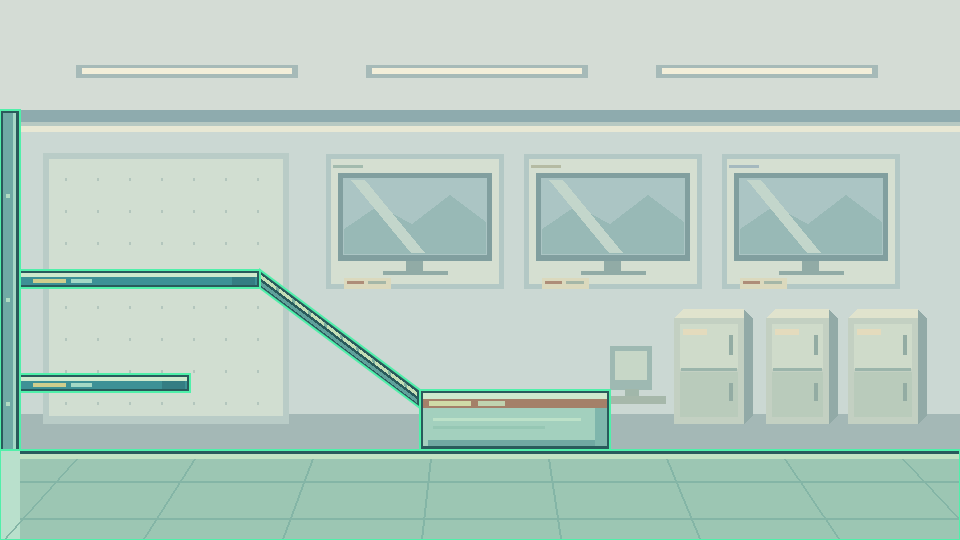
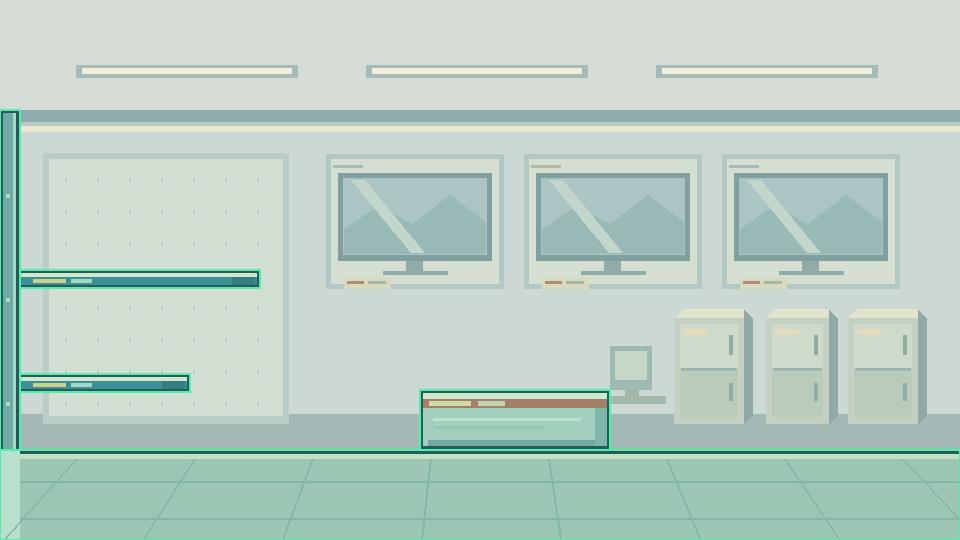
Open the electronics store's lower shelf approach
Remove the diagonal shelf-to-pedestal connector from both the authored SVG and static collision data. Keep shelf and pedestal positions, item candidates and stage ordering intact. Update the lesson and rendered previews to match.

Validation: Node visual review of the map, collider overlay and gameplay snapshot; 773 Godot 4.7.2 game integration checks passed with --fixed-fps 120. The process exited 0 with resource-cleanup warnings. No full-suite or deployment-success claim.

Assisted-by: ChatGPT

Changed region(s): [[0.25, 0.5037, 0.4375, 0.7704]]

diff --git a/docs/HANDOFF.md b/docs/HANDOFF.md
@@ -1,6 +1,6 @@
 # 実装引き継ぎ
 2026-11-12：家電量販店を追加。ソースは`RabbitDaisuke/nandemo-cannon`のmain、基準コミット`c2dbdbe3bb2631a58b2a66a9d9873d6a70e844fa`からクローンし直した。新面の内部IDは52、表示名は「かでんりょうはんてん」。`data/stage-order.json`へ手で挿入し、既存のsequenceGroupと通常の並べ替えを維持する。終盤2面の名前やIDを条件分岐する処理、末尾を保証するテストは追加していない。
-原稿は`tools/extend-electronics-store-stage.mjs`、生成入口は`./build.sh selection-items`。左端の壁、左の二段棚、上段から中央の低い展示台へ下る固定スロープを組み合わせた。棚の間とスロープ下は実際の空洞で、背景のテレビ・家電売り場には当たり判定を付けない。指定品をすべて含む既存50種類をqueueへ明記し、既存の15件超キュー処理により15種類を重複なし・シード付きで抽選する。洗濯機の重複指定は同じ種類として扱う。物体カタログは514件、自由選択は非表示2件を除く512件のままで、モノ・検索索引・既存51面の内容は変更していない。
+原稿は`tools/extend-electronics-store-stage.mjs`、生成入口は`./build.sh selection-items`。左端の壁、左の二段棚、独立した中央の低い展示台を組み合わせた。追加後の指摘により、下段へ投げ込む経路を塞いでいた斜めの接続を絵と当たり判定の両方から撤去した。棚の右側を開け、棚・展示台の位置と大きさは保持する。説明も「たなと てんじだいをつかって つみあげよう！」へ合わせた。背景のテレビ・家電売り場には当たり判定を付けない。指定品をすべて含む既存50種類をqueueへ明記し、既存の15件超キュー処理により15種類を重複なし・シード付きで抽選する。洗濯機の重複指定は同じ種類として扱う。物体カタログは514件、自由選択は非表示2件を除く512件のままで、モノ・検索索引・既存51面の内容は変更していない。
 確認では、Godot 4.7.2公式バイナリのSHAを照合し、新面を含むゲーム統合773項目と15投キューの再現性を確認した。既存rescue試験のステージ数51の固定条件だけを定義件数への追従へ直した。通常時間のrescue試験は爆風物の下向き衝突で失敗が出た一方、同じ試験を`--fixed-fps 120`で実行すると122項目すべて通過した。物理処理・合否条件は緩和していない。通常時間を含む全検証が安定成功したとは扱わず、Actionsと配信結果は別途確認が必要。画像確認はNode.jsで背景・コライダー・Godot状態を描画し、ブラウザやエンジンの画面キャプチャではない。
 2026-10-26 リテイク：親担当が14点を直接描き直し、`tools/oct26-retake-items.mjs`へ移した。新規の「かんがえるかお」を加え、ごまあんまんを原稿・物体データ・検索索引・画像から削除。合計442物体・48面・自由選択専用165点は変わらない。ユーザー確認によりチョコパンはハンバーグへ置換し、IDは`chocolate-bread`を保持。墨汁容器もID`inkstone`を保持する。つぶあんまんは大きい断面の半切りで、元の幅69・高さ69×85/111を維持。フライ返しのスリットと横向きフィルム芯は実コライダーでも空洞。平台車とパッカー車は既存のwheeled挙動を使う。全15点のNode描画とコライダー重ね画像を目視し、形状を再調整済み。`previews/selection-oct26-retakes.png`と同colliders画像で確認できる。素材生成とNode検査は完了、`./build.sh check`はGodotインポート後のsearch試験起動でEACCESになり、物理回帰テストは未確認。ゲーム実装・UI・ステージは変更していない。push後にActionsを待たない。
 2026-10-26：食品等31点・道具34点を追加して442物体、自由選択専用165点。原稿は`tools/oct26-food-items.mjs`と`tools/oct26-tool-items.mjs`、生成入口は`./build.sh selection-items`、手書き検索タグは索引へ別途記述した。マンゴーラッシーは既存品を使う。「ぽんぷ（無理）」の独立追加は見送り、明示された黄色蛇腹・青ホースの足踏みポンプは追加した。名前の文字数は強制制限しない。つぎの名前を14px、クレーンの最初の「モノ」だけカタカナに変更。専用abyss矩形を全4面から除き共通の画面外落下で消す。全48面の地形・キューが元データと同一であることをNodeで検証した。

diff --git a/AGENTS.md b/AGENTS.md
@@ -1,5 +1,5 @@
 # 開発時の指示
-2026-11-12追加：内部ID52「かでんりょうはんてん」は`tools/extend-electronics-store-stage.mjs`で生成する。指定品を含む既存50種類のqueueから共通処理で15種類を重複なし抽選する。指定に重複した洗濯機は1種類として扱い、物体カタログ514件（自由選択512件）を増減しない。左壁、二段の片持ち棚、上段から中央の低い展示台へつながる固定スロープを持ち、棚間とスロープ下は空洞。表示順は`data/stage-order.json`へ手で追加し、既存sequenceGroupによる終盤の並びを保持する。末尾2面を決め打ちする処理・順序保証テストは追加しない。
+2026-11-12追加：内部ID52「かでんりょうはんてん」は`tools/extend-electronics-store-stage.mjs`で生成する。指定品を含む既存50種類のqueueから共通処理で15種類を重複なし抽選する。指定に重複した洗濯機は1種類として扱い、物体カタログ514件（自由選択512件）を増減しない。左壁、二段の片持ち棚、独立した中央の低い展示台を持つ。下段への投げ込みを塞いでいた斜めの接続は絵と当たり判定から撤去し、棚の右側を開ける。表示順は`data/stage-order.json`へ手で追加し、既存sequenceGroupによる終盤の並びを保持する。末尾2面を決め打ちする処理・順序保証テストは追加しない。
 最新リテイク：`tools/oct28-items.mjs`の体重計は真上からの平面、カメラフィルムは筒と帯の高さを合わせ、ピアノの鍵盤線は斜めにする。電話・ランニングマシンの部品を接続し、トンネルは入口と右側壁が見える斜め横向き、トムチーズは空色皿付き。手回し肉焼きは薪を加え、既存fuel_lightで8秒燃焼し、水・燃料切れで専用の消火画像へ切り替える。任意の燃料物に指定できる`physics.fireSource`（原稿座標）・`fireVisualWidth`（原稿幅）で炎の位置と幅を指定し、指定時は熱源と炎が物体の回転に追従する。未指定の既存燃料物の原点と描画幅は保持する。音響機器の表示名は「オーディオアイオー」、旧名は手書き検索の別名として残す。
 最新追加：514物体・51ステージ。`tools/oct28-items.mjs`にグランドピアノ、トイレペーパー、手回し肉焼き、盆栽、ピーマン肉詰め、うずらの卵、音響機器、時計、ティンパニ、カメラフィルム、菓子パン、検査機、体重計、電話、チーズ、ランニングマシン、煙突、トンネル、チキンロースター、ポップコーン、ストレッチャーの22点を直接作画した。大きな実物も通常の投げ物に収まる模型サイズで、カウンター級の寸法にはしない。名前は区別できる短いかな名を個別に選び、文字数の強制条件をテスト・ビルド・監査へ追加しない。手書き検索索引を追加し、既存ステージの固定候補は保持する。桶2種は既存absorbで各4単位、トイレペーパーは10単位まで接触水を吸う。盆栽は既存breakable、ストレッチャーはwheelFixturesが接地したときだけ滑る既存wheeled。トンネル・検査機の通路と脚の間は物理的にも空洞。洗濯機の原稿・データは変更しない。
 最新追加：492物体・51ステージ。`tools/japanese-food-items.mjs`に空色皿のやきそば、わさび、プラスチック容器のこしょう、すきやきなべ、しちりん、ぎょにくソーセージ、おしぼり、たまごかけごはん、ぜんざい、三つ葉添えのたきこみごはんを追加。表示名は「やきそば」で、既存屋台用のIDと画像は保持する。七輪は既存fuel_lightの8秒燃料・炎アニメ・水による消火・専用の灰色炭画像を使い、発火の原点を網の中心へ合わせる。おしぼりは既存absorbで接触した水を6単位まで吸う。かまぼこは添付画像の×が付いた手前の小片だけを絵とコライダーから除き、板の座標と物体寸法を保持する。検索タグは手書き。
